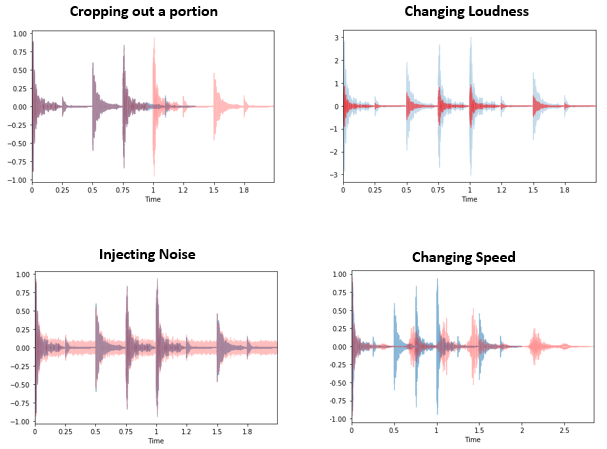
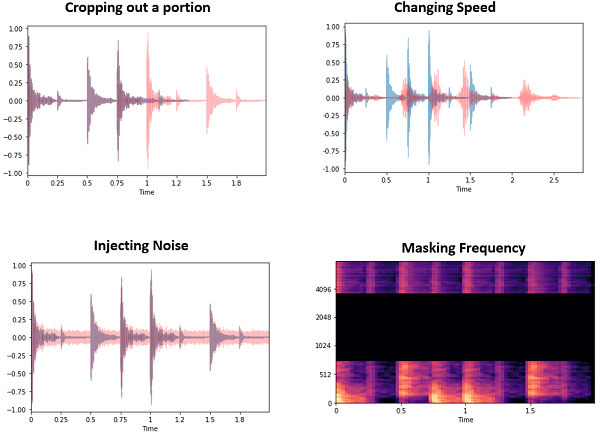
add spectogram augmentation

diff --git a/README.md b/README.md
@@ -110,7 +110,8 @@ pip install librosa>=0.7.1
 *   Fix ContextualWordEmbsAug (for BERT) error when input is longer than max sequence length
 *   Add RandomWordAug Substitute action
 *	Fix ContextualWordEmbsAug error when no augmented data
-**0.0.9** Sep 30, 2019
+
+**0.0.9 Sep 30, 2019
 *   Added Swap Mode (adjacent, middle and random) for RandomAug (character level)
 *   Added SynonymAug (WordNet/ PPDB) and AntonymAug (WordNet)
 *   WordNetAug is deprecated. Uses SynonymAug instead
